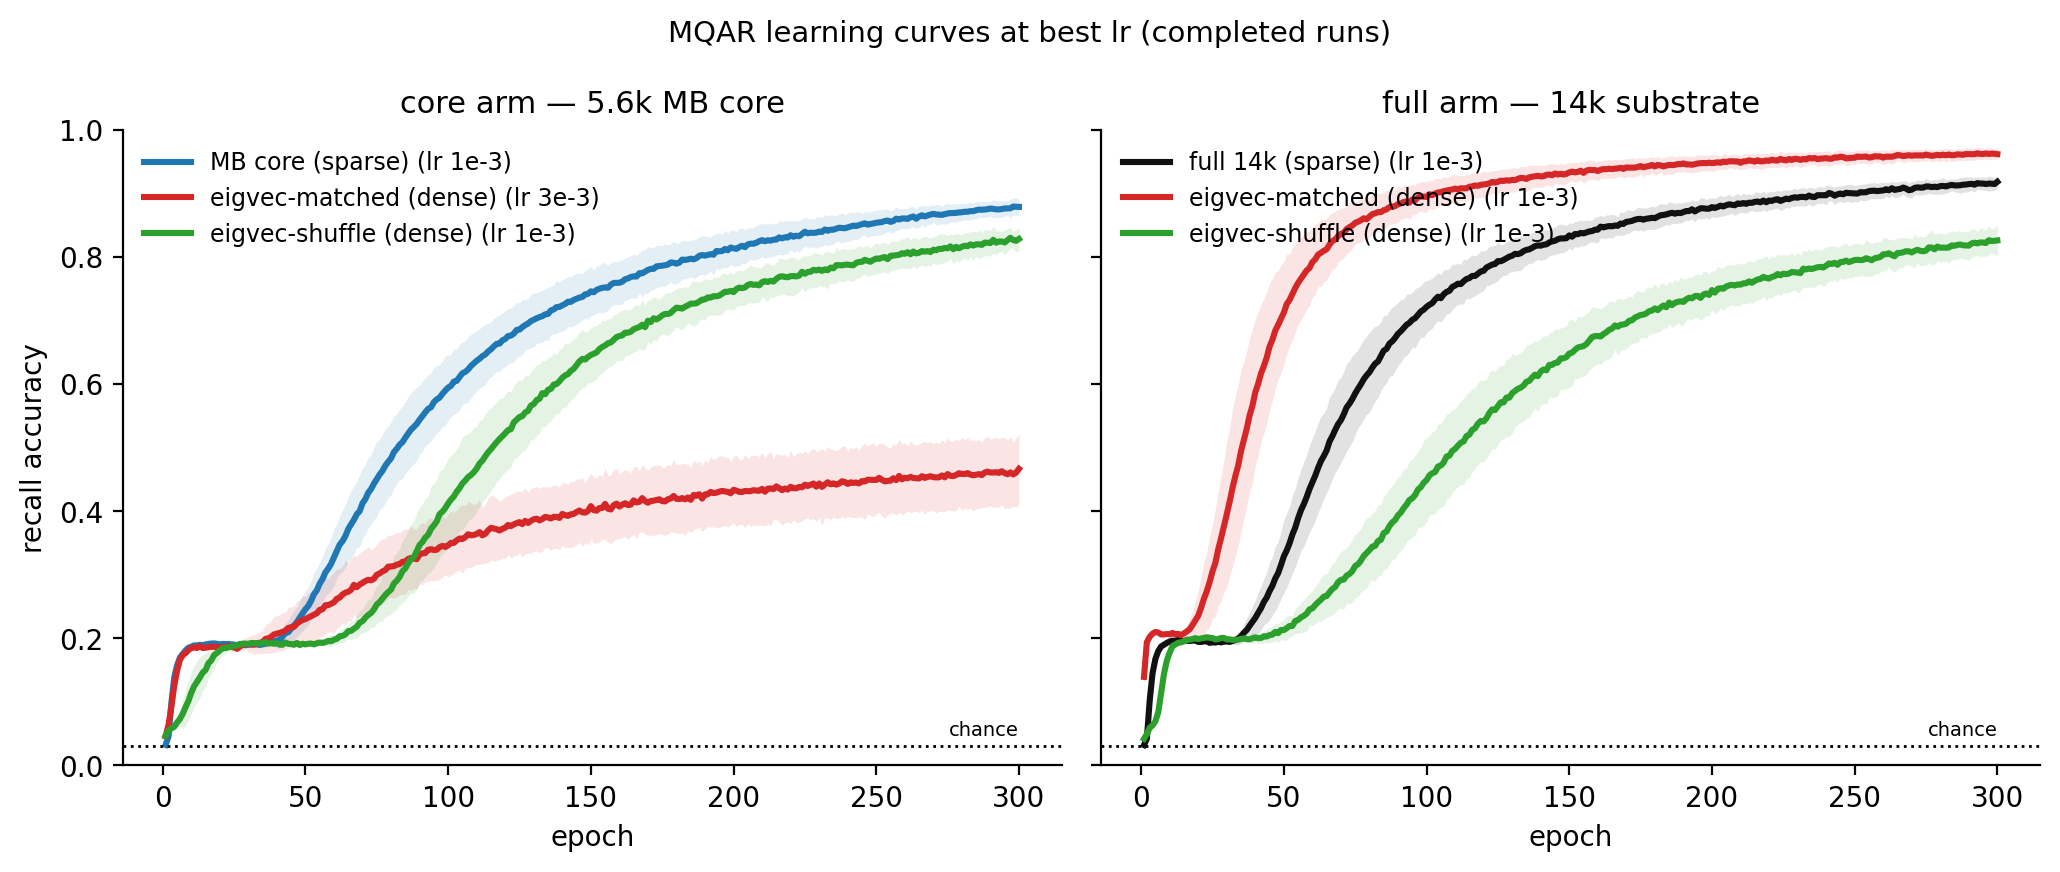
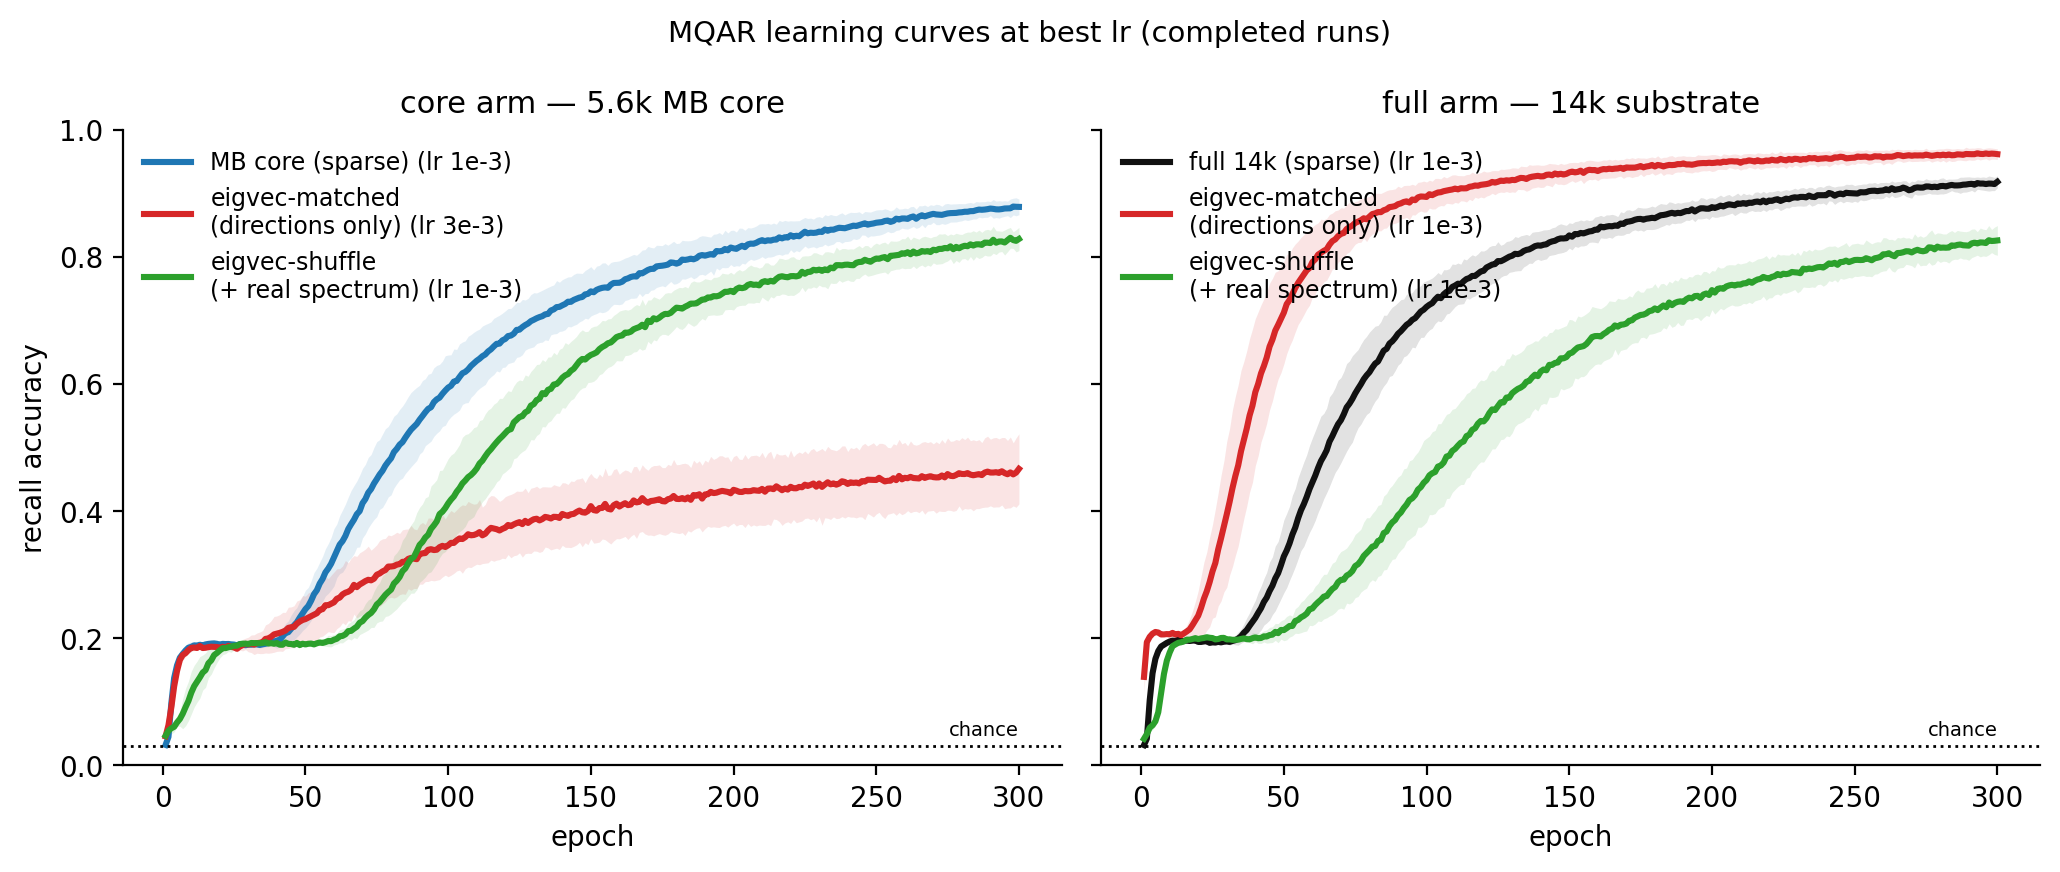
exp02: clarify controls in figures

Changed region(s): [[0.5282, 0.2167, 0.7767, 0.3406], [0.0621, 0.2167, 0.2796, 0.3406]]

diff --git a/scott/experiment_02_mb_core_pruning/make_figures_eigvec.py b/scott/experiment_02_mb_core_pruning/make_figures_eigvec.py
@@ -60,8 +60,17 @@ COLOR = {
 }
 LABEL = {
     "core": "MB core (sparse)", "full": "full 14k (sparse)",
-    "eigvec_matched_core": "eigvec-matched (dense)", "eigvec_matched_full": "eigvec-matched (dense)",
-    "eigvec_shuffle_core": "eigvec-shuffle (dense)", "eigvec_shuffle_full": "eigvec-shuffle (dense)",
+    "eigvec_matched_core": "eigvec-matched\n(directions only)",
+    "eigvec_matched_full": "eigvec-matched\n(directions only)",
+    "eigvec_shuffle_core": "eigvec-shuffle\n(+ real spectrum)",
+    "eigvec_shuffle_full": "eigvec-shuffle\n(+ real spectrum)",
+}
+# Short tags for inline stat notes (full meaning is on the x-axis labels + caption: both dense
+# surrogates keep the connectome's directions; matched gives them random eigenvalues, shuffle keeps
+# the real eigenvalue spectrum but mis-pairs which direction gets which).
+SHORT = {
+    "eigvec_matched_core": "matched", "eigvec_matched_full": "matched",
+    "eigvec_shuffle_core": "shuffle", "eigvec_shuffle_full": "shuffle",
 }
 CHANCE = 1 / 32
 
@@ -224,8 +233,7 @@ def eigvec_fig2_final_acc(rows, lrs, figdir):
             p = mwu(conn_v, v)
             d = (np.mean(v) - np.mean(conn_v)) if len(v) and len(conn_v) else float("nan")
             arrow = "↑" if d > 0 else "↓"  # surrogate above / below the connectome
-            short = LABEL[c].split("-")[1].split(" ")[0]  # "matched" / "shuffle"
-            notes.append(f"vs {short}: {arrow}{abs(d):.3f} ({stars(p)})")
+            notes.append(f"vs {SHORT[c]}: {arrow}{abs(d):.3f} ({stars(p)})")
         ax.set_title(f"{title}\nconnectome " + ",  ".join(notes), fontsize=8.6)
         ax.set_ylim(0, 1)
     axes[0].set_ylabel("final recall accuracy")
